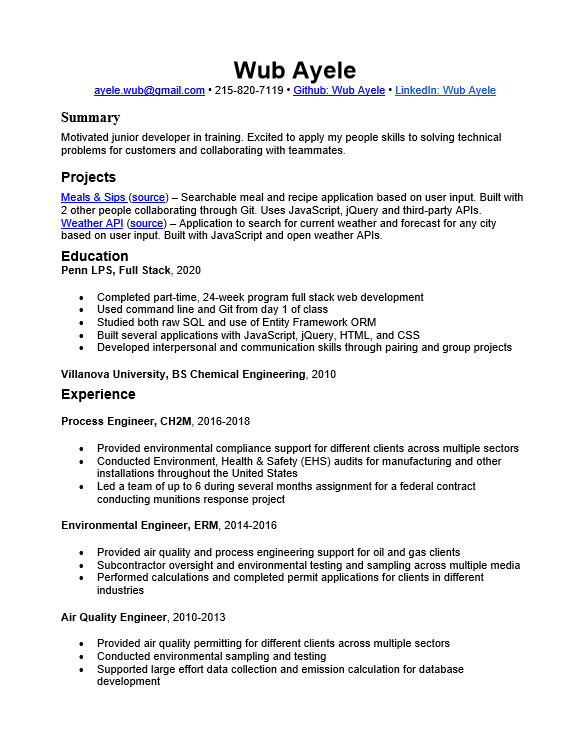
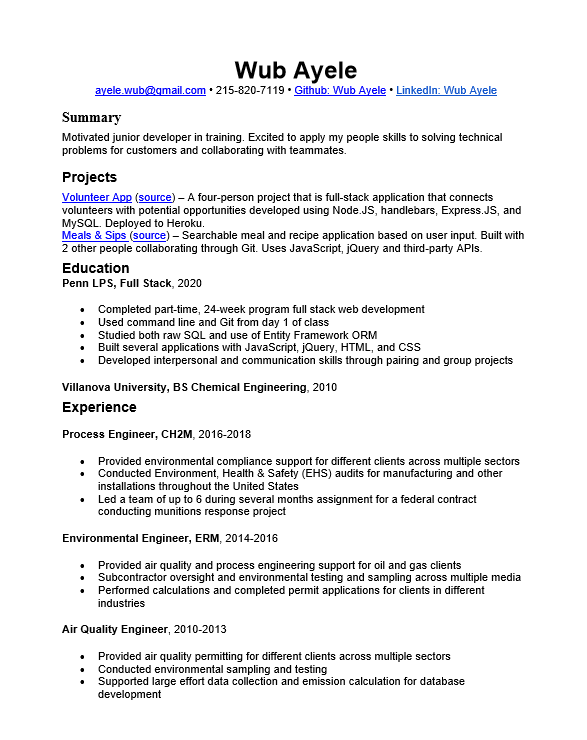
updated portfolio page with new project and resume

Changed region(s): [[0.0938, 0.0604, 0.9062, 0.9657]]

diff --git a/links/portfolio.html b/links/portfolio.html
@@ -37,14 +37,81 @@
     <!-- Row-1 -->
     <div class="row">
       <div class="col-md-12">
-        <h1 class="projects">Projects & Resume</h1>
+        <h1 class="projects"> My Projects & Applications</h1>
       </div>
     </div>
     <!-- Row-2  -->
     <div class="row">
-      <div class="col-md-4">
-        <!-- Placeholder images for future projects -->
-        <h2>Meals & Sips</h2>
+      <div class="col-md-12">
+        <div id="carouselExampleCaptions" class="carousel slide" data-ride="carousel">
+          <ol class="carousel-indicators">
+            <li data-target="#carouselExampleCaptions" data-slide-to="0" class="active"></li>
+            <li data-target="#carouselExampleCaptions" data-slide-to="1"></li>
+            <li data-target="#carouselExampleCaptions" data-slide-to="2"></li>
+            <li data-target="#carouselExampleCaptions" data-slide-to="3"></li>
+            <li data-target="#carouselExampleCaptions" data-slide-to="4"></li>
+            <li data-target="#carouselExampleCaptions" data-slide-to="5"></li>
+          </ol>
+          <div class="carousel-inner">
+            <div class="carousel-item active">
+              <a href="https://helping-hands-project-2.herokuapp.com/"><img src="../assets/vol_scrnshot.png"
+                  class="d-block w-100" alt="project-two"></a>
+              <div class="carousel-caption d-none d-md-block">
+                <!-- <h5>Volunteer App Project</h5> -->
+              </div>
+            </div>
+            <div class="carousel-item">
+              <a href="https://wayele.github.io/meals_and_sips/"><img src="../assets/prj1scrnshot2.png"
+                  class="d-block w-100" alt="project-one"></a>
+              <div class="carousel-caption d-none d-md-block">
+                <!-- <h5>Meals & Sips App Project</h5> -->
+              </div>
+            </div>
+            <div class="carousel-item">
+              <a href="https://wub-burger-app.herokuapp.com/"><img src="../assets/burgers_scrnshot.png"
+                  class="d-block w-100" alt="..."></a>
+              <div class="carousel-caption d-none d-md-block">
+                <!-- <h5>Burgers App</h5> -->
+              </div>
+            </div>
+            <div class="carousel-item">
+              <a href="https://wayele.github.io/weatherAPI"><img src="../assets/weather_scrnshot.png"
+                  class="d-block w-100" alt="..."></a>
+              <div class="carousel-caption d-none d-md-block">
+                <!-- <h5>Weather App</h5> -->
+              </div>
+            </div>
+            <div class="carousel-item">
+              <a href="https://wayele.github.io/calendarhw5"><img src="../assets/calendar_scrnshot.png"
+                  class="d-block w-100" alt="..."></a>
+              <div class="carousel-caption d-none d-md-block">
+                <!-- <h5>Calendar App</h5> -->
+              </div>
+            </div>
+            <div class="carousel-item">
+              <a href="https://wayele.github.io/portfolio/wube.html"><img src="../assets/wube_scrnshot.png"
+                  class="d-block w-100" alt="..."></a>
+              <div class="carousel-caption d-none d-md-block">
+                <!-- <h5>Portfolio App</h5> -->
+              </div>
+            </div>
+          </div>
+          <a class="carousel-control-prev" href="#carouselExampleCaptions" role="button" data-slide="prev">
+            <span class="carousel-control-prev-icon" aria-hidden="true"></span>
+            <span class="sr-only">Previous</span>
+          </a>
+          <a class="carousel-control-next" href="#carouselExampleCaptions" role="button" data-slide="next">
+            <span class="carousel-control-next-icon" aria-hidden="true"></span>
+            <span class="sr-only">Next</span>
+          </a>
+        </div>
+      </div>
+    </div>
+  </div>
+  <br>
+  <br>
+  <!-- Placeholder images for future projects -->
+  <!-- <h2>Meals & Sips</h2>
         <code>Follow the link below for the deployed application
           <a href="https://wayele.github.io/meals_and_sips/">https://wayele.github.io/meals_and_sips</a>
         </code>
@@ -72,26 +139,33 @@
         </a>
         <code>Project files can be found on my github pages:
           <a href="https://github.com/wayele/burgers">Burger App files</a></code>
-      </div>
-    </div>
+      </div> -->
+  <div class="container">
     <div class="row">
-      <div class="col-md-4">
+      <div class="col-md-6">
         <h2>Resume</h2>
         <code>Follow the link below for a printable version of my Resume:
-        <a href="https://drive.google.com/open?id=16eGAgrRZlZBOLxTAG64195XzV8TBbcZD"><br>
+        <a href="https://drive.google.com/file/d/16eGAgrRZlZBOLxTAG64195XzV8TBbcZD/view?usp=sharing"><br>
         Resume Here</a>
       </code>
         <br>
         <img src="../assets/pennResume.png" alt="myresume">
       </div>
-      <div class="col-md-4">
-        <h2>Future Project</h2>
-        <code>Future project link will be placed here:
-          <a href="https://drive.google.com/open?id=16eGAgrRZlZBOLxTAG64195XzV8TBbcZD"><br>
-          Future Project Here</a>
-        </code>
+      <div class="col-md-6 repo">
+        <h2>Project & App Repositories</h2>
+        <p><a href="https://github.com/Bpeart90/project2/"><br>
+            Volunteer App Project</a></p>
+        <p><a href="https://github.com/Bpeart90/project2/"><br>
+            Meals & Sips App Project</a></p>
+        <p><a href="https://github.com/Bpeart90/project2/"><br>
+            Burger App </a></p>
+        <p><a href="https://github.com/Bpeart90/project2/"><br>
+            Weather App </a></p>
+        <p><a href="https://github.com/Bpeart90/project2/"><br>
+            Calendar App</a></p>
+        <p><a href="https://github.com/Bpeart90/project2/"><br>
+            Portfolio </a></p>
         <br>
-        <a href="https://placeholder.com"><img src="https://via.placeholder.com/150x100"></a>
       </div>
     </div>
   </div>

diff --git a/assets/style.css b/assets/style.css
@@ -6,26 +6,38 @@
 
 body {
     background-color: #d9dcd6;
+    display: block;
+    top: 0;
+    left: 0;
+    width: 100%;
+    font-family: "Poppins", sans-serif;
+    color: #222;
 }
-
+.carousel-inner, img {
+    width: 80%;
+    height: 60%;
+    justify-items: center;
+    margin-left: 75px;
+}
+/* .carousel-caption {
+    position: absolute;
+    top: 80%;
+    transform: translateY(-50%);
+    background-color: black;
+    color: whitesmoke;
+    opacity: 0.5;
+} */
 a {
     color: #1a0606;
     text-decoration: none;
 }
-
+.repo {
+    text-decoration: underline;
+    font-style: italic;
+}
 p {
     font-size: 20px;
 }
-/* .hero {
-    height: 400px;
-    width: 100%;
-    margin-top: 20px;
-    margin-bottom: 25px;
-    background-image: url("golden-eagle.jpg");
-    background-size: 75%;
-    background-position: top;
-    z-index: -5; */
-
 
 .header {
     z-index: 1;
@@ -48,10 +60,10 @@ p {
     padding-right: 10px;
 }
 
-img {
+/* img {
     height: 400;
     width: 350px;
-}
+} */
 .about {
     padding: 10px;
     position: relative;

diff --git a/wube.html b/wube.html
@@ -44,7 +44,7 @@
                         <h5 class="card-title">Welcome!</h5>
                         <p class="card-text">Hi! My name is Wube. I am an engineer, community activist, and a full-stack
                             web developer in training.</p>
-                        <p class="card-text"><small class="text-muted">Last updated 4/18/2020</small></p>
+                        <p class="card-text"><small class="text-muted">Last updated 6/19/2020</small></p>
                     </div>
                 </div>
             </div>
